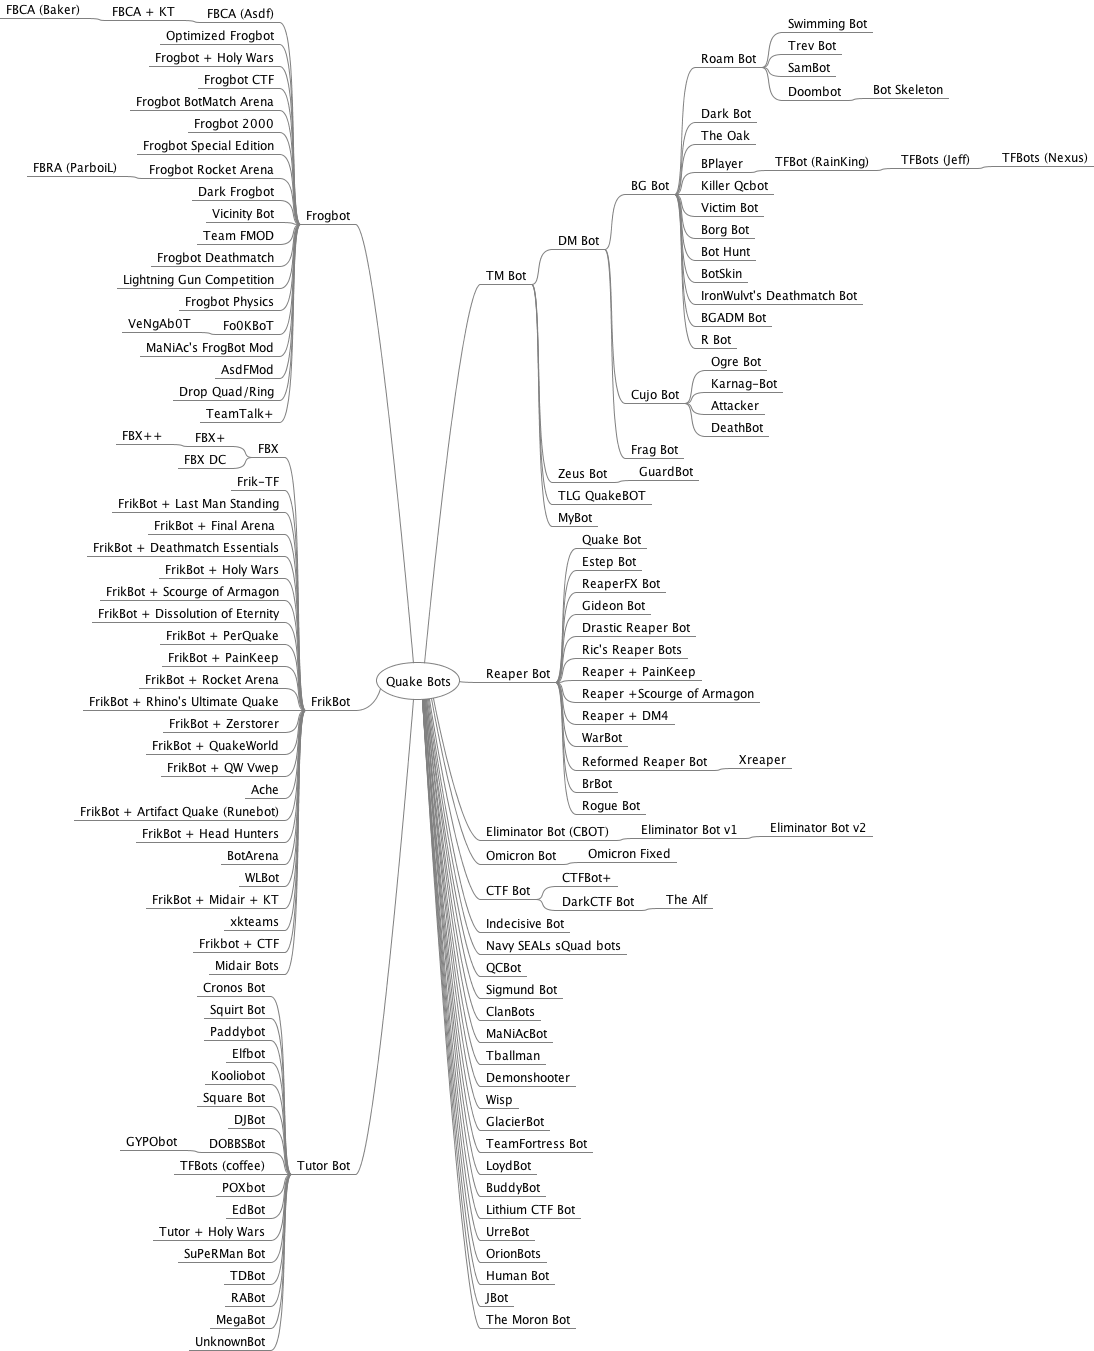
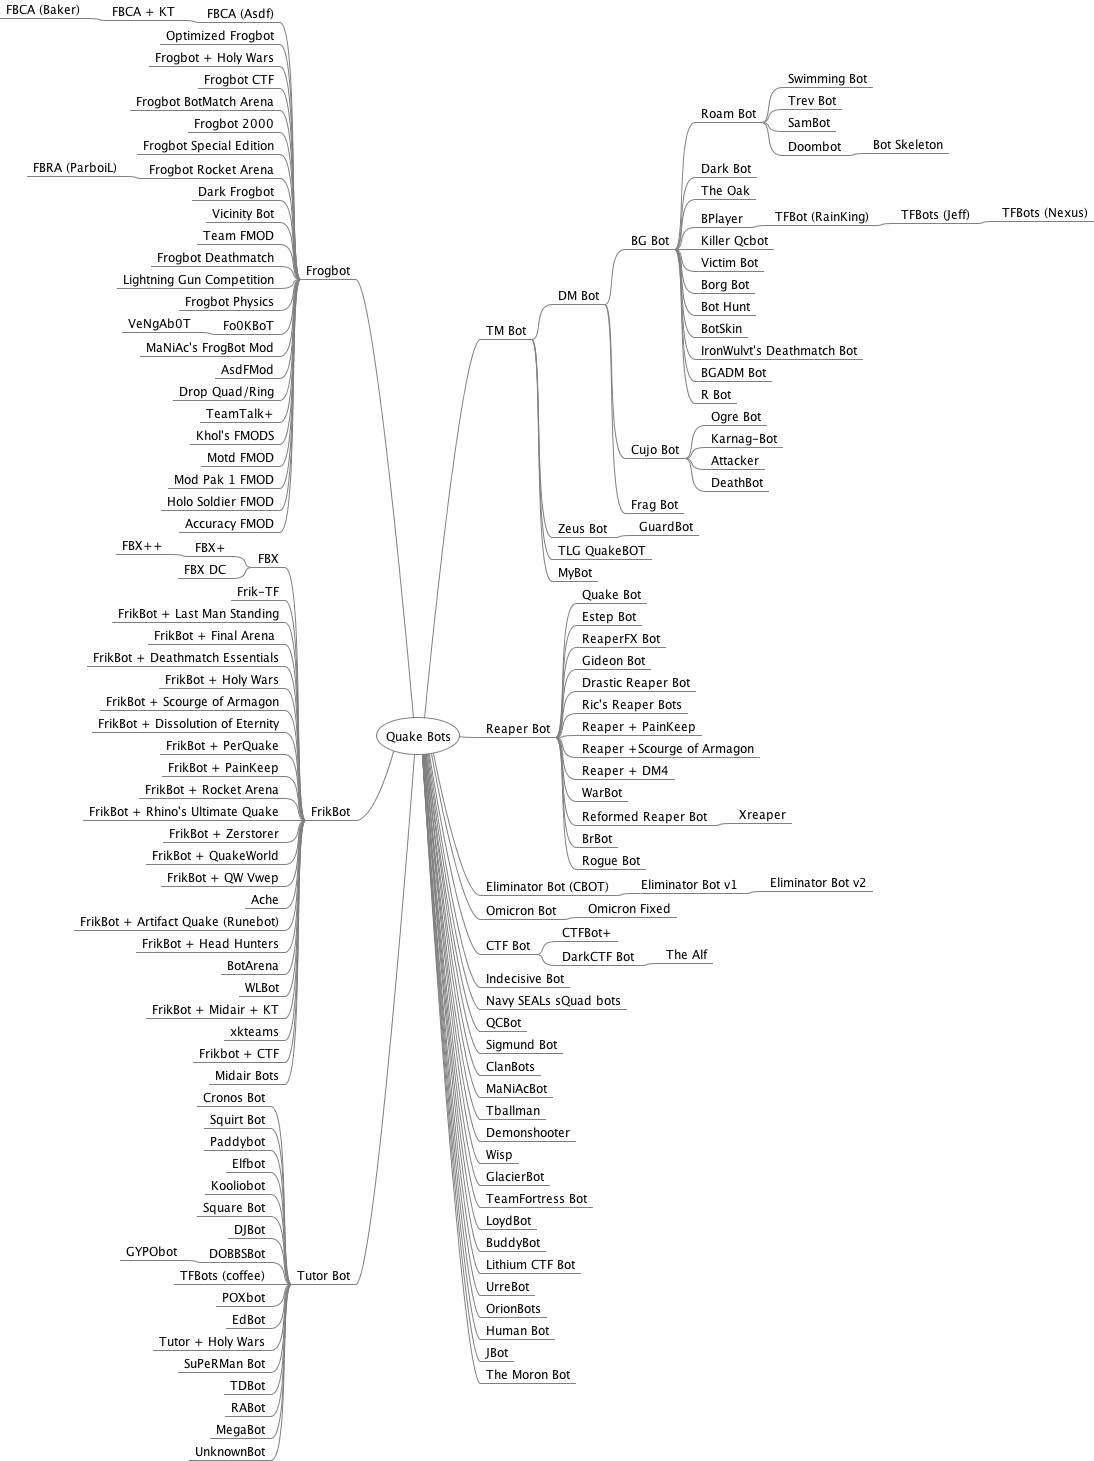
added FMODS to the list

Changed region(s): [[0.3419, 0.0, 0.9945, 0.9948], [0.0, 0.0, 0.3419, 1.0]]

diff --git a/mindmap/QuakeBots.mm b/mindmap/QuakeBots.mm
@@ -75,7 +75,7 @@
 <node CREATED="1624412666759" ID="ID_376907642" MODIFIED="1624412667481" TEXT="The Alf"/>
 </node>
 </node>
-<node CREATED="1622514920508" ID="ID_432501820" MODIFIED="1624572907806" POSITION="left" TEXT="Frogbot">
+<node CREATED="1622514920508" ID="ID_432501820" MODIFIED="1625096780014" POSITION="left" TEXT="Frogbot">
 <node CREATED="1622847095651" ID="ID_726455203" MODIFIED="1623196902129" TEXT="FBCA (Asdf)">
 <node CREATED="1624140418753" ID="ID_1036975630" MODIFIED="1624140427416" TEXT="FBCA + KT">
 <node CREATED="1622847096852" ID="ID_1730901224" MODIFIED="1623196958616" TEXT="FBCA (Baker)"/>
@@ -103,6 +103,11 @@
 <node CREATED="1625093359842" ID="ID_21137099" MODIFIED="1625093361048" TEXT="AsdFMod"/>
 <node CREATED="1625093667111" ID="ID_189328321" MODIFIED="1625093667795" TEXT="Drop Quad/Ring"/>
 <node CREATED="1625093845347" ID="ID_1691916987" MODIFIED="1625093846425" TEXT="TeamTalk+"/>
+<node CREATED="1625096653237" ID="ID_1282851639" MODIFIED="1625096654223" TEXT="Khol&apos;s FMODS"/>
+<node CREATED="1625096679672" ID="ID_517604067" MODIFIED="1625096680762" TEXT="Motd FMOD"/>
+<node CREATED="1625096721637" ID="ID_638375758" MODIFIED="1625096722365" TEXT="Mod Pak 1 FMOD"/>
+<node CREATED="1625096750709" ID="ID_474974438" MODIFIED="1625096751447" TEXT="Holo Soldier FMOD"/>
+<node CREATED="1625096780014" ID="ID_1409243057" MODIFIED="1625096781575" TEXT="Accuracy FMOD"/>
 </node>
 <node CREATED="1622514879263" ID="ID_981472223" MODIFIED="1624576572711" POSITION="left" TEXT="FrikBot">
 <node CREATED="1622840413966" ID="ID_534018268" MODIFIED="1623012543935" TEXT="FBX">

diff --git a/README.md b/README.md
@@ -14,6 +14,7 @@ Alphabetical list of quake bot names, authors, and local download links for all 
 
 Bot Name | Bot Author(s) | File
 --- | --- | ---
+Accuracy FMOD | Algirdas Kepezinskas aka "ZeCybEr" | Accuracy.zip
 Ache | Athos Konkoran Kryn | [ache.zip](bin/ache.zip)
 Asdf's FMOD | Matt McChesney aka "asdf" | [asdfmod100.zip](bin/asdfmod100.zip)
 Attacker | Jonathan Geary | [attacker.zip](bin/attacker.zip)
@@ -89,11 +90,13 @@ Gideon Bot | Matthew Turvey | [gidbot.zip](bin/gidbot.zip)
 GlacierBot | "IceDagger" | gb027b.zip
 GuardBot | Peter van Wingerden | [grdbot23.zip](bin/grdbot23.zip)<br>grdbot13.zip<br>guardbot.zip
 GYPObot | Stephen Dobbs | [gypobot.zip](bin/gypobot.zip)
+Holo Soldier FMOD | Algirdas Kepezinskas aka "ZeCybEr" | holomod.zip
 Human Bot (Hbot) | Jeffrey Lee | [hbot.zip](bin/hbot.zip)
 Indecisive Bot (Gyrobot) | Aaron Logue aka "Gyro Gearloose" | [gyrobot.zip](bin/gyrobot.zip)<br>[gbotsrc.zip](bin/gbotsrc.zip)
 IronWulvt's Deathmatch Bot | Ben Garrod aka "IronWulvt" | [iwbot21.zip](bin/iwbot21.zip) <br>[iwbot16.zip](bin/iwbot16.zip)<br>iwbot1.zip
 JBot | Jeffrey Lee | [jbot.zip](bin/jbot.zip)
 KarNag Bot | Ken Madlener | [knbot45.zip](bin/knbot45.zip)<br>[knbot03.ZIP](bin/knbot03.ZIP)
+Khol's FMODS | "Khol" | kfmod.zip
 Killer Qcbot | William  Ravaine aka "Killer-Sub" | [kqcbots095b.zip](bin/kqcbots095b.zip)<br>KQCBotSource.zip
 Kooliobot | Robert de Heus aka "Koolio" | [kooliobot.zip](bin/kooliobot.zip)<br>koolio.zip
 Lightning Gun Competition (LGC) | Phil aka "peheyele" | [lgc3.zip](bin/lgc3.zip)<br>[lgc2c.zip](bin/lgc2c.zip)<br>[lgc2.zip](bin/lgc2.zip)<br>lgc.zip
@@ -103,6 +106,8 @@ MaNiAc's FrogBot MOD (lag simulation) | Michael Turitzin aka "MaNiAc" | [lagmod.
 MaNiAcBot | Michael Turitzin aka "MaNiAc" | [maniacbt.zip](bin/maniacbt.zip)<br>maniacbt12.zip<br>FBMOD.ZIP
 MegaBot | "Vic" | [megabot.zip](bin/megabot.zip)
 Midair Bots | Benjamin Darling aka "Electro" and "Vomit" | [midair_qwbot.rar](bin/midair_qwbot.rar)<br>[midairbots_all.zip](bin/midairbots_all.zip)<br>[midairbots.zip](bin/midairbots.zip)
+Mod Pak 1 FMOD | "Neophyte" | mpak1v12.zip
+Motd FMOD | Algirdas Kepezinskas aka "ZeCybEr" | motd.zip
 MyBot | Stephen Vanterpool | [mybot16.zip](bin/mybot16.zip)<br>[mybot13a.zip](bin/mybot13a.zip)<br>[mybot.zip](bin/mybot.zip)
 Navy SEALs sQuad bots | William van der Sterren | [nseal201.zip](bin/nseal201.zip)<br>sqdbt201.zip
 Ogre Bot | "Lava Man" | [ogrebot.zip](bin/ogrebot.zip)
